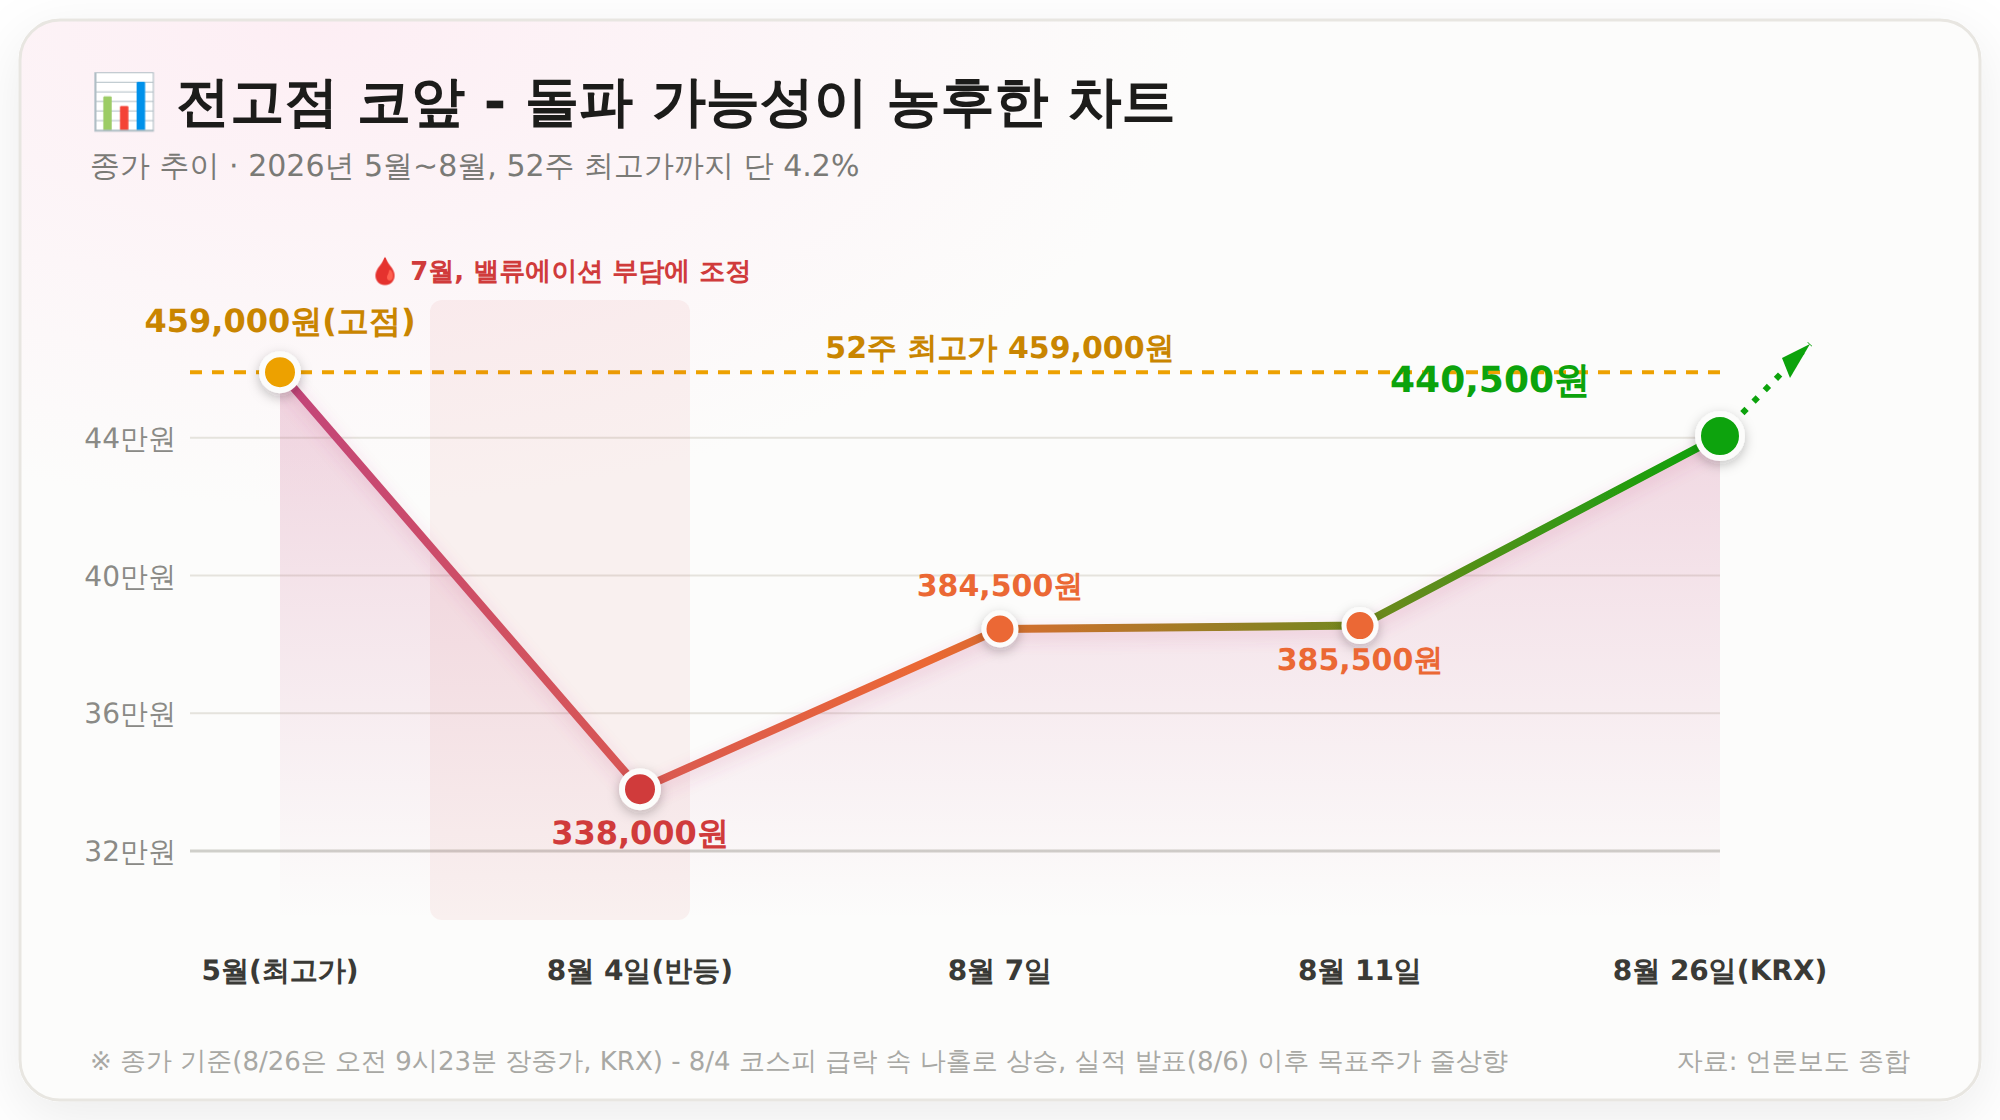
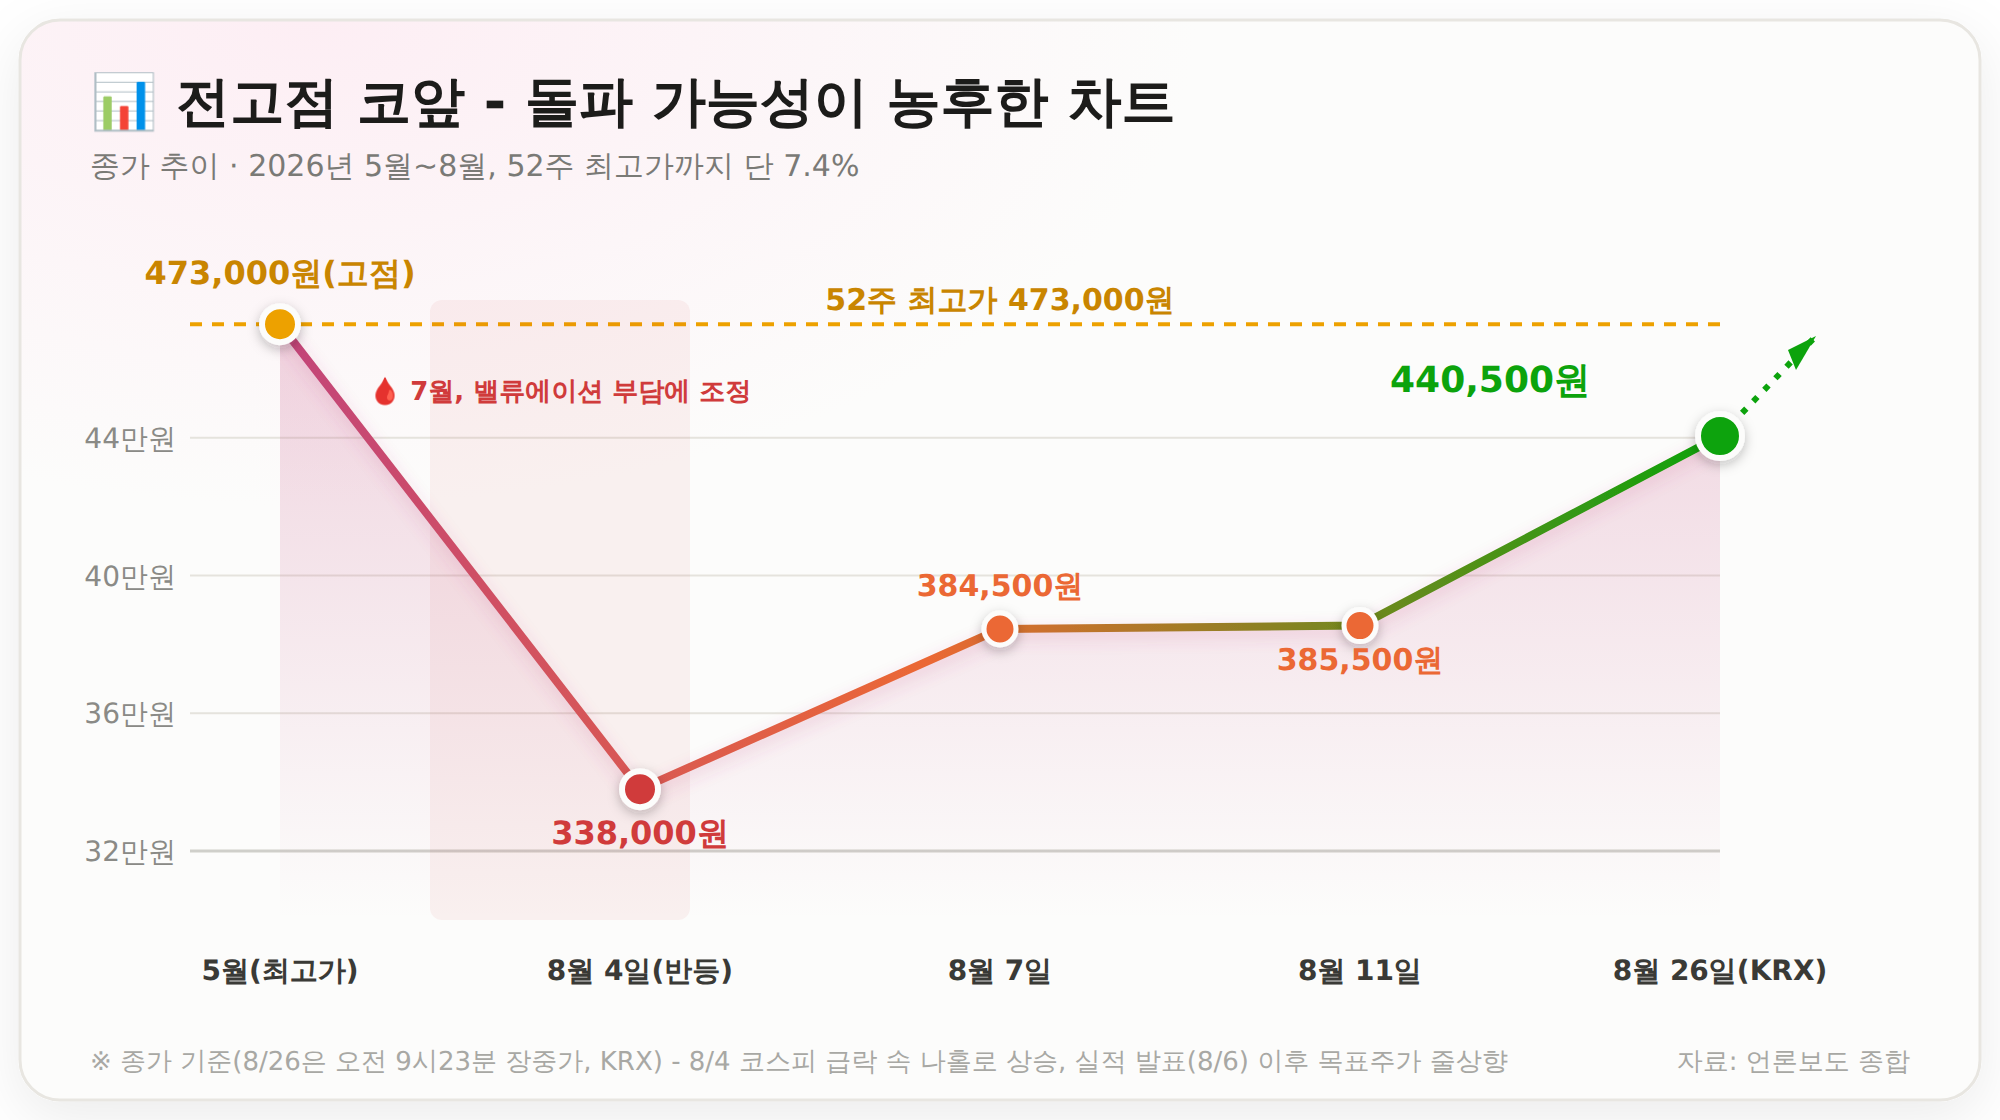
fix: 에이피알 52주 최고가 459,000원→473,000원 정정, 갭 7.4%로 재계산
- 전고가 오타 정정(459,000원→473,000원), 현재가(440,500원) 대비 남은 거리
  4.2%→7.4%로 재계산해 본문·차트·커버 전체 반영
- 종가추이 차트: 52주 최고가 라인·5월 고점 마커 위치 조정, 라벨 겹침 수정

diff --git a/src/App.tsx b/src/App.tsx
@@ -20,7 +20,7 @@ const samplePosts: Post[] = [
 
 안녕하세요 대왕토끼입니다~ 🐰
 
-![에이피알 주식분석 커버 이미지 - 사상 최대 실적, 전고 돌파가 눈앞, 2026년 2분기 영업이익 1906억원 전년比 +134.5%, 7월 조정 후 실적 서프라이즈로 목표주가 줄상향 평균 약 52.1만원, 8월26일 오전 9시23분 KRX 440500원 전고까지 단 4.2% 전고 459000원](/images/apr-stock/apr-cover.png)
+![에이피알 주식분석 커버 이미지 - 사상 최대 실적, 전고 돌파가 눈앞, 2026년 2분기 영업이익 1906억원 전년比 +134.5%, 7월 조정 후 실적 서프라이즈로 목표주가 줄상향 평균 약 52.1만원, 8월26일 오전 9시23분 KRX 440500원 전고까지 단 7.4% 전고 473000원](/images/apr-stock/apr-cover.png)
 
 지난번 **한국콜마** 분석 때, 저는 "요즘 시장의 관심은 ODM 업체보다 에이피알 같은 브랜드 기업 쪽에 더 쏠려 있다"고 짚었었는데요. 오늘은 그 주인공 **에이피알**을 직접 살펴보려고 합니다. K뷰티 업황 훈풍은 한국콜마 편에서 이미 자세히 다뤘으니, 이번 글에서는 에이피알 고유의 이야기 — 사상 최대 실적과 최근 차트 흐름 — 에 집중해서 짚어봤어요.
 
@@ -69,17 +69,17 @@ const samplePosts: Post[] = [
 
 ### ① 7월 내내 이어진 조정
 
-이렇게 좋은 실적에도 불구하고, 에이피알 주가는 7월 내내 하락세를 이어갔어요. 5월경 52주 최고가 459,000원을 기록한 이후, 이미 크게 오른 주가에 대한 밸류에이션 부담이 부각되며 조정을 받았습니다.
+이렇게 좋은 실적에도 불구하고, 에이피알 주가는 7월 내내 하락세를 이어갔어요. 5월경 52주 최고가 473,000원을 기록한 이후, 이미 크게 오른 주가에 대한 밸류에이션 부담이 부각되며 조정을 받았습니다.
 
 ### ② 8월, 실적 서프라이즈로 뒤집힌 흐름
 
 분위기는 8월 들어 완전히 바뀌었어요. 8월 4일, 코스피 지수가 -5.12% 급락한 날에도 에이피알은 오히려 +5.63% 오른 338,000원으로 마감하며 '나홀로 질주'했습니다. 이어 8월 6일 2분기 실적(매출 +134.2%, 영업이익 +134.5%)이 시장 예상을 크게 웃돌았다는 소식에 최소 4개 증권사가 일제히 목표주가를 상향했고, 주가는 8월 7일 384,500원(+1.72%), 8월 11일 385,500원까지 강세를 이어갔어요. 이 흐름은 이후로도 꺾이지 않고 이어져서, 8월 26일 오전 9시 23분 기준 KRX 종가는 **440,500원**까지 올라왔습니다.
 
-![에이피알 종가 추이 차트 - 5월 52주 최고가 459,000원 기록 후 7월 밸류에이션 부담에 조정, 8월4일 코스피 급락장 속 나홀로 상승 338,000원에서 반등해 8월26일 440,500원까지 회복, 52주 최고가까지 단 4.2% 남은 돌파 임박 구간](/images/apr-stock/apr-price-trend.png)
+![에이피알 종가 추이 차트 - 5월 52주 최고가 473,000원 기록 후 7월 밸류에이션 부담에 조정, 8월4일 코스피 급락장 속 나홀로 상승 338,000원에서 반등해 8월26일 440,500원까지 회복, 52주 최고가까지 단 7.4% 남은 돌파 임박 구간](/images/apr-stock/apr-price-trend.png)
 
 ### ③ 차트로 보면 - 돌파 가능성이 농후한 구간
 
-8월 26일 현재가(440,500원) 기준으로 보면, 5월 52주 최고가(459,000원)까지 남은 거리는 단 4.2%예요. 7월 저점(338,000원) 대비로는 이미 30% 넘게 반등한 상태고, 그 반등을 실적 서프라이즈와 목표주가 줄상향이라는 펀더멘털 재료가 계속 뒷받침하고 있다는 점에서, 지금 이 구간은 "돌파가 될 수도 있다" 정도가 아니라 "돌파 가능성이 농후한" 베이스로 봐도 무리가 없어 보여요. 실적 모멘텀이 꺾이지 않는 한, 52주 최고가는 저항선이라기보다 통과 지점에 더 가까운 위치라는 인상이에요. 다음 관전 포인트는 전고점 부근에서 거래량이 얼마나 실리는지, 그리고 실제로 신고가를 찍는 순간의 매물 소화 여부예요.
+8월 26일 현재가(440,500원) 기준으로 보면, 5월 52주 최고가(473,000원)까지 남은 거리는 단 7.4%예요. 7월 저점(338,000원) 대비로는 이미 30% 넘게 반등한 상태고, 그 반등을 실적 서프라이즈와 목표주가 줄상향이라는 펀더멘털 재료가 계속 뒷받침하고 있다는 점에서, 지금 이 구간은 "돌파가 될 수도 있다" 정도가 아니라 "돌파 가능성이 농후한" 베이스로 봐도 무리가 없어 보여요. 실적 모멘텀이 꺾이지 않는 한, 52주 최고가는 저항선이라기보다 통과 지점에 더 가까운 위치라는 인상이에요. 다음 관전 포인트는 전고점 부근에서 거래량이 얼마나 실리는지, 그리고 실제로 신고가를 찍는 순간의 매물 소화 여부예요.
 
 ---
 
@@ -100,7 +100,7 @@ const samplePosts: Post[] = [
 
 ![에이피알 목표주가와 현재가 비교 차트 - 8월26일 오전 9시23분 KRX 440,500원 대비 삼성·KB증권 50만원, 하나증권 51만원, 한국투자증권 52만원, 유진투자증권 53만원, NH투자증권 54만원, 교보증권 55만원으로 목표주가가 모두 현재가를 상회](/images/apr-stock/apr-target-price.png)
 
-8월 26일 현재가(440,500원) 대비로도 목표주가 평균은 여전히 18% 이상 높은 수준이고, 목표주가 상단(55만원)은 52주 최고가(459,000원)보다도 위에 있어요. 즉 지금 가격 상승분을 반영하고도, 증권가는 여전히 "아직 갈 길이 남았다" 쪽에 무게를 두고 있는 셈이에요.
+8월 26일 현재가(440,500원) 대비로도 목표주가 평균은 여전히 18% 이상 높은 수준이고, 목표주가 상단(55만원)은 52주 최고가(473,000원)보다도 위에 있어요. 즉 지금 가격 상승분을 반영하고도, 증권가는 여전히 "아직 갈 길이 남았다" 쪽에 무게를 두고 있는 셈이에요.
 
 ---
 
@@ -111,7 +111,7 @@ const samplePosts: Post[] = [
 ### 📈 돌파 시나리오 (기본 시나리오)
 - 3분기에도 메디큐브·AGE-R의 해외 판매 확대가 이어지며 실적 서프라이즈가 반복되는 흐름
 - 뷰티테크 카테고리에서의 선두 지위가 공고해지며 밸류에이션 재평가가 이어지는 흐름
-- 거래량을 동반한 채로 52주 최고가(459,000원)를 넘어서며 신고가 영역에 진입하는 흐름
+- 거래량을 동반한 채로 52주 최고가(473,000원)를 넘어서며 신고가 영역에 진입하는 흐름
 - 관전 포인트: 전고점 부근 거래량, 3분기 실적 발표 시점, 해외 오프라인 매장 확대 속도
 
 ### 📉 조정 시나리오 (변수로 남는 리스크)
@@ -130,7 +130,7 @@ const samplePosts: Post[] = [
 - 화장품(메디큐브)과 홈 뷰티디바이스(AGE-R)를 함께 파는 독특한 사업 구조로, 카테고리 자체를 개척하고 있어요.
 - 두 분기 연속 전년比 130%대 성장을 기록하며 실적 모멘텀이 뚜렷하게 확인되고 있어요.
 - 목표주가 평균이 현재가 대비 18% 이상 높고, 52주 최고가 대비로도 목표주가 상단이 더 높은 편이에요.
-- 8월 26일 현재가 기준 52주 최고가까지 남은 거리가 단 4.2%로, 차트상으로도 돌파 가능성이 농후한 구간에 들어와 있어요.
+- 8월 26일 현재가 기준 52주 최고가까지 남은 거리가 단 7.4%로, 차트상으로도 돌파 가능성이 농후한 구간에 들어와 있어요.
 - 미국·유럽 오프라인 채널 확장이 아직 초입 단계라, 추가 성장 여력이 남아있다는 시각이 있어요.
 
 **리스크**
@@ -143,7 +143,7 @@ const samplePosts: Post[] = [
 
 ## 8. 결론 및 투자자 시사점
 
-에이피알은 화장품과 홈 뷰티디바이스를 함께 파는 독특한 사업 구조로 K뷰티 브랜드 기업의 대표주자로 떠오른 회사예요. 두 분기 연속 전년比 130%대 성장이라는 압도적인 실적을 내고 있고, 7월 조정을 딛고 8월 들어 실적 서프라이즈와 목표주가 줄상향을 등에 업고 반등한 끝에, 8월 26일 현재 52주 최고가까지 단 4.2%만을 남겨둔 상태까지 올라왔습니다.
+에이피알은 화장품과 홈 뷰티디바이스를 함께 파는 독특한 사업 구조로 K뷰티 브랜드 기업의 대표주자로 떠오른 회사예요. 두 분기 연속 전년比 130%대 성장이라는 압도적인 실적을 내고 있고, 7월 조정을 딛고 8월 들어 실적 서프라이즈와 목표주가 줄상향을 등에 업고 반등한 끝에, 8월 26일 현재 52주 최고가까지 단 7.4%만을 남겨둔 상태까지 올라왔습니다.
 
 지난 한국콜마 분석에서 다뤘던 K뷰티 수출 훈풍이 산업 전체의 배경이라면, 에이피알은 그 안에서도 자체 브랜드·디바이스로 시장의 관심을 가장 많이 받고 있는 종목 중 하나예요. 실적, 수급, 차트가 함께 같은 방향을 가리키고 있다는 점에서 전고점 돌파 가능성이 농후한 구간으로 보이지만, 목표주가와의 괴리가 여전히 크고 전고점 자체가 강한 저항선으로 작용할 수도 있는 만큼, 실제 돌파 여부와 그 이후의 거래량은 직접 확인해보시는 걸 추천드려요.
 

diff --git a/posts/stock/apr-analysis.md b/posts/stock/apr-analysis.md
@@ -10,7 +10,7 @@ naverCategory: "국내주식"
 
 안녕하세요 대왕토끼입니다~ 🐰
 
-![에이피알 주식분석 커버 이미지 - 사상 최대 실적, 전고 돌파가 눈앞, 2026년 2분기 영업이익 1906억원 전년比 +134.5%, 7월 조정 후 실적 서프라이즈로 목표주가 줄상향 평균 약 52.1만원, 8월26일 오전 9시23분 KRX 440500원 전고까지 단 4.2% 전고 459000원](/images/apr-stock/apr-cover.png)
+![에이피알 주식분석 커버 이미지 - 사상 최대 실적, 전고 돌파가 눈앞, 2026년 2분기 영업이익 1906억원 전년比 +134.5%, 7월 조정 후 실적 서프라이즈로 목표주가 줄상향 평균 약 52.1만원, 8월26일 오전 9시23분 KRX 440500원 전고까지 단 7.4% 전고 473000원](/images/apr-stock/apr-cover.png)
 
 지난번 **한국콜마** 분석 때, 저는 "요즘 시장의 관심은 ODM 업체보다 에이피알 같은 브랜드 기업 쪽에 더 쏠려 있다"고 짚었었는데요. 오늘은 그 주인공 **에이피알**을 직접 살펴보려고 합니다. K뷰티 업황 훈풍은 한국콜마 편에서 이미 자세히 다뤘으니, 이번 글에서는 에이피알 고유의 이야기 — 사상 최대 실적과 최근 차트 흐름 — 에 집중해서 짚어봤어요.
 
@@ -59,17 +59,17 @@ naverCategory: "국내주식"
 
 ### ① 7월 내내 이어진 조정
 
-이렇게 좋은 실적에도 불구하고, 에이피알 주가는 7월 내내 하락세를 이어갔어요. 5월경 52주 최고가 459,000원을 기록한 이후, 이미 크게 오른 주가에 대한 밸류에이션 부담이 부각되며 조정을 받았습니다.
+이렇게 좋은 실적에도 불구하고, 에이피알 주가는 7월 내내 하락세를 이어갔어요. 5월경 52주 최고가 473,000원을 기록한 이후, 이미 크게 오른 주가에 대한 밸류에이션 부담이 부각되며 조정을 받았습니다.
 
 ### ② 8월, 실적 서프라이즈로 뒤집힌 흐름
 
 분위기는 8월 들어 완전히 바뀌었어요. 8월 4일, 코스피 지수가 -5.12% 급락한 날에도 에이피알은 오히려 +5.63% 오른 338,000원으로 마감하며 '나홀로 질주'했습니다. 이어 8월 6일 2분기 실적(매출 +134.2%, 영업이익 +134.5%)이 시장 예상을 크게 웃돌았다는 소식에 최소 4개 증권사가 일제히 목표주가를 상향했고, 주가는 8월 7일 384,500원(+1.72%), 8월 11일 385,500원까지 강세를 이어갔어요. 이 흐름은 이후로도 꺾이지 않고 이어져서, 8월 26일 오전 9시 23분 기준 KRX 종가는 **440,500원**까지 올라왔습니다.
 
-![에이피알 종가 추이 차트 - 5월 52주 최고가 459,000원 기록 후 7월 밸류에이션 부담에 조정, 8월4일 코스피 급락장 속 나홀로 상승 338,000원에서 반등해 8월26일 440,500원까지 회복, 52주 최고가까지 단 4.2% 남은 돌파 임박 구간](/images/apr-stock/apr-price-trend.png)
+![에이피알 종가 추이 차트 - 5월 52주 최고가 473,000원 기록 후 7월 밸류에이션 부담에 조정, 8월4일 코스피 급락장 속 나홀로 상승 338,000원에서 반등해 8월26일 440,500원까지 회복, 52주 최고가까지 단 7.4% 남은 돌파 임박 구간](/images/apr-stock/apr-price-trend.png)
 
 ### ③ 차트로 보면 - 돌파 가능성이 농후한 구간
 
-8월 26일 현재가(440,500원) 기준으로 보면, 5월 52주 최고가(459,000원)까지 남은 거리는 단 4.2%예요. 7월 저점(338,000원) 대비로는 이미 30% 넘게 반등한 상태고, 그 반등을 실적 서프라이즈와 목표주가 줄상향이라는 펀더멘털 재료가 계속 뒷받침하고 있다는 점에서, 지금 이 구간은 "돌파가 될 수도 있다" 정도가 아니라 "돌파 가능성이 농후한" 베이스로 봐도 무리가 없어 보여요. 실적 모멘텀이 꺾이지 않는 한, 52주 최고가는 저항선이라기보다 통과 지점에 더 가까운 위치라는 인상이에요. 다음 관전 포인트는 전고점 부근에서 거래량이 얼마나 실리는지, 그리고 실제로 신고가를 찍는 순간의 매물 소화 여부예요.
+8월 26일 현재가(440,500원) 기준으로 보면, 5월 52주 최고가(473,000원)까지 남은 거리는 단 7.4%예요. 7월 저점(338,000원) 대비로는 이미 30% 넘게 반등한 상태고, 그 반등을 실적 서프라이즈와 목표주가 줄상향이라는 펀더멘털 재료가 계속 뒷받침하고 있다는 점에서, 지금 이 구간은 "돌파가 될 수도 있다" 정도가 아니라 "돌파 가능성이 농후한" 베이스로 봐도 무리가 없어 보여요. 실적 모멘텀이 꺾이지 않는 한, 52주 최고가는 저항선이라기보다 통과 지점에 더 가까운 위치라는 인상이에요. 다음 관전 포인트는 전고점 부근에서 거래량이 얼마나 실리는지, 그리고 실제로 신고가를 찍는 순간의 매물 소화 여부예요.
 
 ---
 
@@ -90,7 +90,7 @@ naverCategory: "국내주식"
 
 ![에이피알 목표주가와 현재가 비교 차트 - 8월26일 오전 9시23분 KRX 440,500원 대비 삼성·KB증권 50만원, 하나증권 51만원, 한국투자증권 52만원, 유진투자증권 53만원, NH투자증권 54만원, 교보증권 55만원으로 목표주가가 모두 현재가를 상회](/images/apr-stock/apr-target-price.png)
 
-8월 26일 현재가(440,500원) 대비로도 목표주가 평균은 여전히 18% 이상 높은 수준이고, 목표주가 상단(55만원)은 52주 최고가(459,000원)보다도 위에 있어요. 즉 지금 가격 상승분을 반영하고도, 증권가는 여전히 "아직 갈 길이 남았다" 쪽에 무게를 두고 있는 셈이에요.
+8월 26일 현재가(440,500원) 대비로도 목표주가 평균은 여전히 18% 이상 높은 수준이고, 목표주가 상단(55만원)은 52주 최고가(473,000원)보다도 위에 있어요. 즉 지금 가격 상승분을 반영하고도, 증권가는 여전히 "아직 갈 길이 남았다" 쪽에 무게를 두고 있는 셈이에요.
 
 ---
 
@@ -101,7 +101,7 @@ naverCategory: "국내주식"
 ### 📈 돌파 시나리오 (기본 시나리오)
 - 3분기에도 메디큐브·AGE-R의 해외 판매 확대가 이어지며 실적 서프라이즈가 반복되는 흐름
 - 뷰티테크 카테고리에서의 선두 지위가 공고해지며 밸류에이션 재평가가 이어지는 흐름
-- 거래량을 동반한 채로 52주 최고가(459,000원)를 넘어서며 신고가 영역에 진입하는 흐름
+- 거래량을 동반한 채로 52주 최고가(473,000원)를 넘어서며 신고가 영역에 진입하는 흐름
 - 관전 포인트: 전고점 부근 거래량, 3분기 실적 발표 시점, 해외 오프라인 매장 확대 속도
 
 ### 📉 조정 시나리오 (변수로 남는 리스크)
@@ -120,7 +120,7 @@ naverCategory: "국내주식"
 - 화장품(메디큐브)과 홈 뷰티디바이스(AGE-R)를 함께 파는 독특한 사업 구조로, 카테고리 자체를 개척하고 있어요.
 - 두 분기 연속 전년比 130%대 성장을 기록하며 실적 모멘텀이 뚜렷하게 확인되고 있어요.
 - 목표주가 평균이 현재가 대비 18% 이상 높고, 52주 최고가 대비로도 목표주가 상단이 더 높은 편이에요.
-- 8월 26일 현재가 기준 52주 최고가까지 남은 거리가 단 4.2%로, 차트상으로도 돌파 가능성이 농후한 구간에 들어와 있어요.
+- 8월 26일 현재가 기준 52주 최고가까지 남은 거리가 단 7.4%로, 차트상으로도 돌파 가능성이 농후한 구간에 들어와 있어요.
 - 미국·유럽 오프라인 채널 확장이 아직 초입 단계라, 추가 성장 여력이 남아있다는 시각이 있어요.
 
 **리스크**
@@ -133,7 +133,7 @@ naverCategory: "국내주식"
 
 ## 8. 결론 및 투자자 시사점
 
-에이피알은 화장품과 홈 뷰티디바이스를 함께 파는 독특한 사업 구조로 K뷰티 브랜드 기업의 대표주자로 떠오른 회사예요. 두 분기 연속 전년比 130%대 성장이라는 압도적인 실적을 내고 있고, 7월 조정을 딛고 8월 들어 실적 서프라이즈와 목표주가 줄상향을 등에 업고 반등한 끝에, 8월 26일 현재 52주 최고가까지 단 4.2%만을 남겨둔 상태까지 올라왔습니다.
+에이피알은 화장품과 홈 뷰티디바이스를 함께 파는 독특한 사업 구조로 K뷰티 브랜드 기업의 대표주자로 떠오른 회사예요. 두 분기 연속 전년比 130%대 성장이라는 압도적인 실적을 내고 있고, 7월 조정을 딛고 8월 들어 실적 서프라이즈와 목표주가 줄상향을 등에 업고 반등한 끝에, 8월 26일 현재 52주 최고가까지 단 7.4%만을 남겨둔 상태까지 올라왔습니다.
 
 지난 한국콜마 분석에서 다뤘던 K뷰티 수출 훈풍이 산업 전체의 배경이라면, 에이피알은 그 안에서도 자체 브랜드·디바이스로 시장의 관심을 가장 많이 받고 있는 종목 중 하나예요. 실적, 수급, 차트가 함께 같은 방향을 가리키고 있다는 점에서 전고점 돌파 가능성이 농후한 구간으로 보이지만, 목표주가와의 괴리가 여전히 크고 전고점 자체가 강한 저항선으로 작용할 수도 있는 만큼, 실제 돌파 여부와 그 이후의 거래량은 직접 확인해보시는 걸 추천드려요.
 
